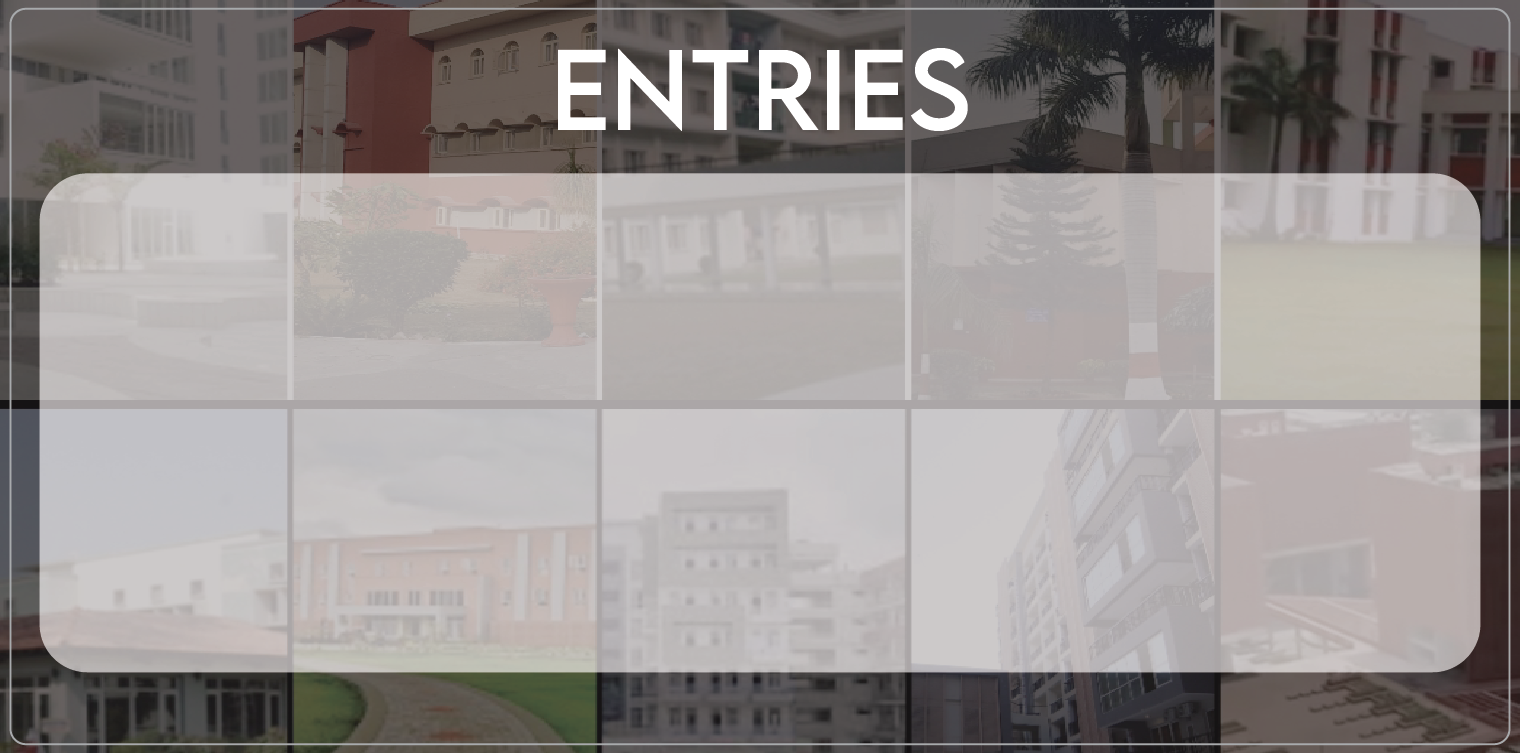
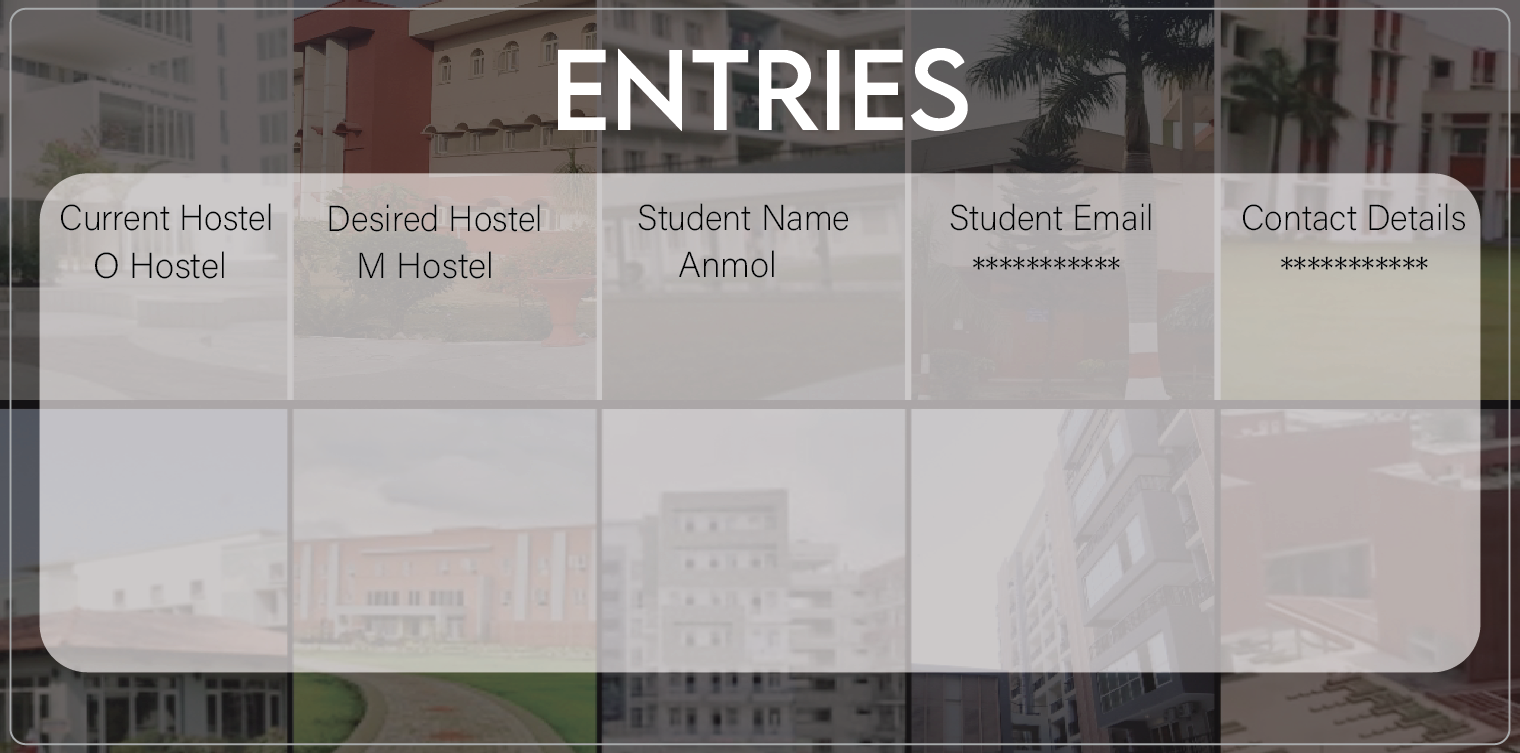
first commit

diff --git a/html/ENTRY.html b/html/ENTRY.html
@@ -20,41 +20,24 @@
           bottom: 35px;
           left: 320px;
         }
+        
         </style>
 </head>
 `
 <body>
-  <script>
- 
-      var config = {
-        apiKey: "AIzaSyCTomU2irQIP7oBNv1ibaIkOCgLVj8AuHU",
-        authDomain: "hosteler-8cd2f.firebaseapp.com",
-        projectId: "hosteler-8cd2f",
-        storageBucket: "hosteler-8cd2f.appspot.com",
-        messagingSenderId: "414901284616",
-        appId: "1:414901284616:web:e74e8c98d33ac54a5f86bd",
-        measurementId: "G-X3F7BWFN8X"
-      };
-    
-      // Initialize Firebase
-      firebase.initializeApp(firebaseConfig);
-      const db= firebase.firestore();
-      db.settings({timestampsInSnapshots : true});
-  </script>
-  <script src="exchange.js"></script>
   
       <body bgcolor="black"></body>
     <div class="bottom-left"><div>
         <form action="/action_page.php">
             <h1>ENTER YOUR DETAILS</h1>
           <label for="fname">Your Name</label>
-          <input type="text" id="fname" name="Your Name" placeholder="Your name..">
+          <input type="text" id="fname" name="name" placeholder="Your name..">
       
           <label for="Ename">Thapar Email</label>
-          <input type="text" id="Ename" name="Thapar Email" placeholder="Your Email..">
+          <input type="text" id="Ename" name="email" placeholder="Your Email.">
       
           <label for="Phone Number">Phone Number</label>
-          <input type="text" id="Phone Number" name="Phone Number" placeholder="Your Phone Number..">
+          <input type="text" id="Phone Number" name="number" placeholder="Your Phone Number..">
 
           <button class="submit"><A href="thnku.html">SUBMIT</A></button>
 
@@ -63,6 +46,24 @@
 </div>    
       <img src="./entry.png" alt="image2" width="1520px" height="735px">
 
+      <script>
+ 
+        var config = {
+          apiKey: "AIzaSyCTomU2irQIP7oBNv1ibaIkOCgLVj8AuHU",
+          authDomain: "hosteler-8cd2f.firebaseapp.com",
+          projectId: "hosteler-8cd2f",
+          storageBucket: "hosteler-8cd2f.appspot.com",
+          messagingSenderId: "414901284616",
+          appId: "1:414901284616:web:e74e8c98d33ac54a5f86bd",
+          measurementId: "G-X3F7BWFN8X"
+        };
+      
+        // Initialize Firebase
+        firebase.initializeApp(config);
+        const db= firebase.firestore();
+        db.settings({ timestampsInSnapshots: true }); 
+    </script>
+    <script src="exchange.js"></script>
+
 </body>
 </html>
-

diff --git a/front.html b/front.html
@@ -49,6 +49,7 @@
 <body>
   <div class="container"></div>
     <body bgcolor="black"></body>
+    
     <img src="./fr nt.png" alt="image2" width="1520px" height="735px">
     <div class="bottom-left"><button class="button button2"><a href=BOYS.html>Boys Hostel</button></a>
     </div>

diff --git a/Entries.html b/Entries.html
@@ -36,7 +36,7 @@
 
         </div>
 //</div>
-  <img src="./ENTRIES.png" alt="image2" width="1520px" height="735px">
+  <img src="./entries.png" alt="image2" width="1520px" height="735px">
   <div class="top-left"><style>
     body {
       font-family: "Lato", sans-serif;
